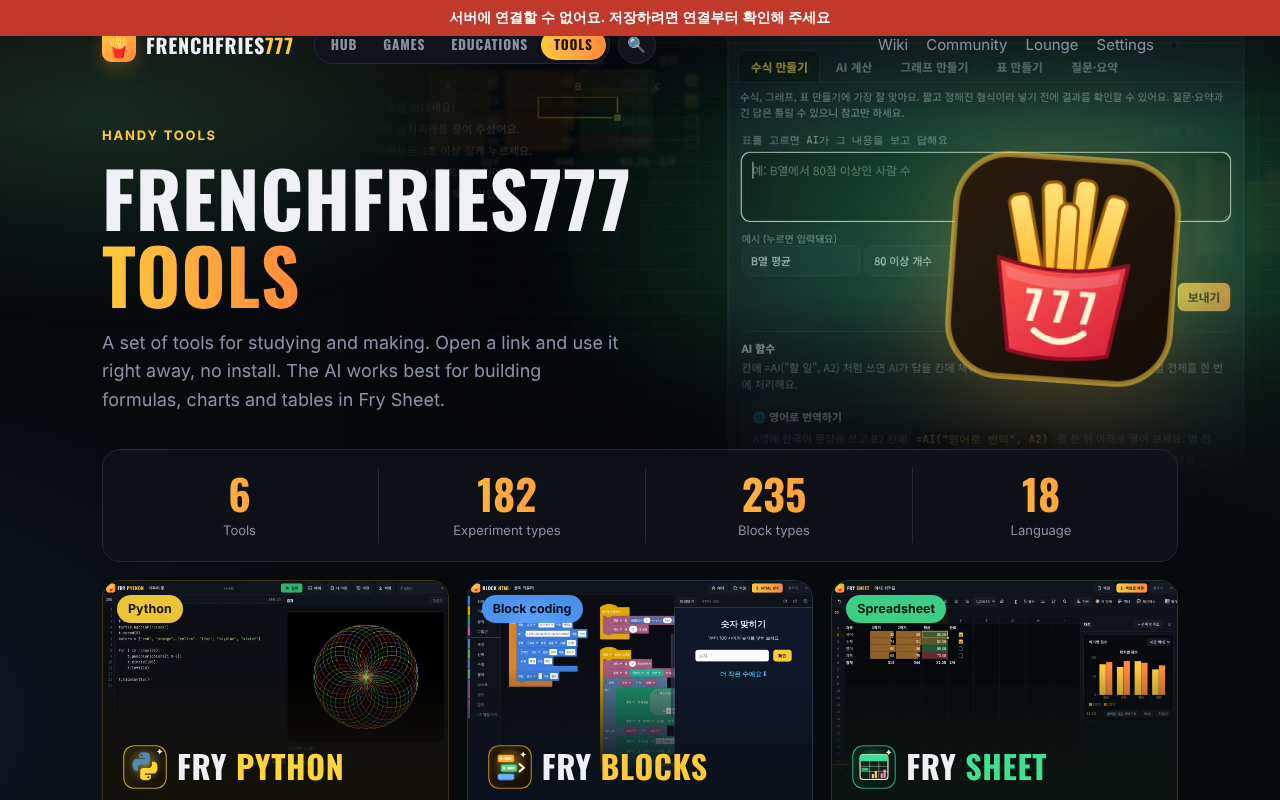
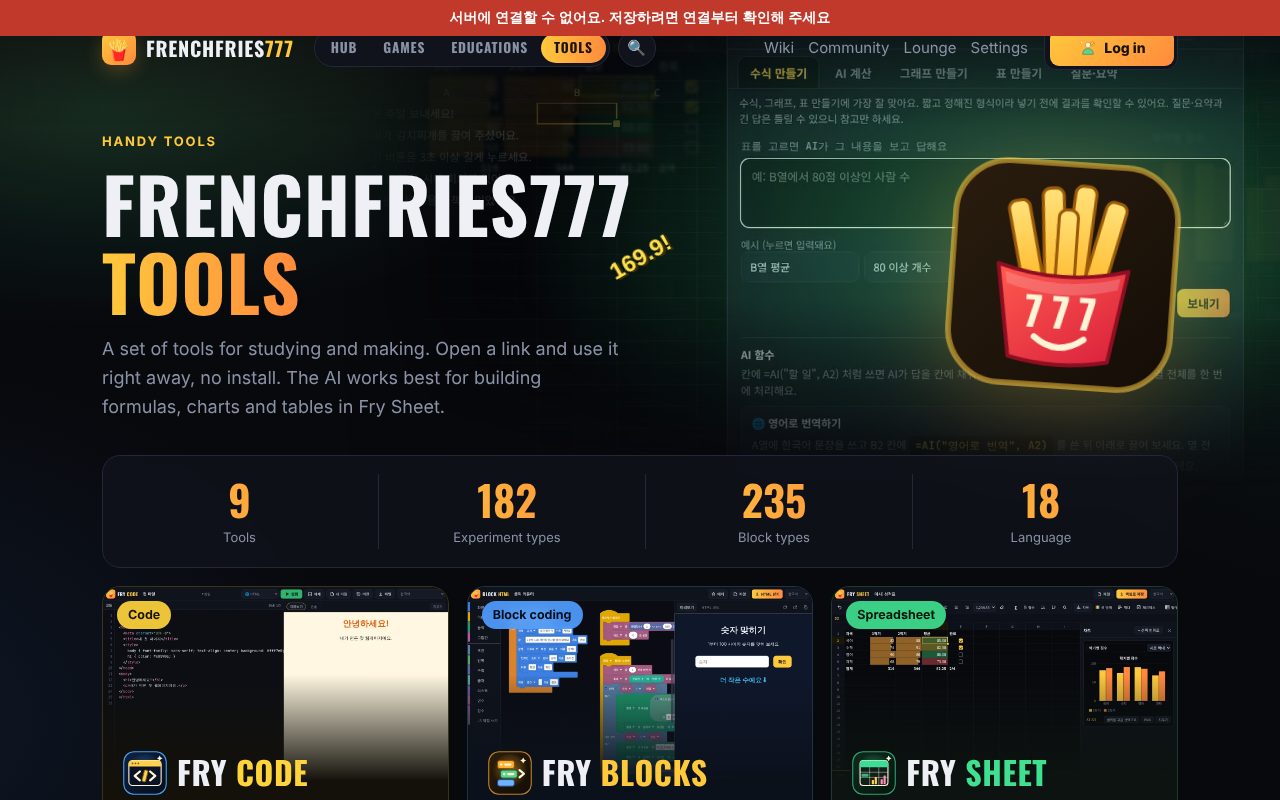
새 디자인: 라이트·다크와 황금 포인트, 도움말 다시 쓰기, 기존 화면 사진 보관

diff --git a/draw/index.html b/draw/index.html
@@ -15,8 +15,8 @@
 <link href="https://fonts.googleapis.com/css2?family=Oswald:wght@500;600;700&family=Noto+Sans+KR:wght@400;500;700;800&display=swap" rel="stylesheet">
 <script src="../i18n.js"></script>
 <style>
-:root{ --bg:#08090d; --panel:#10131b; --panel2:#151925; --line:#222837; --text:#eef0f5; --dim:#8a93a6; --fry:#ffc93c; --fry2:#ff8a3d; --desk:#0b0d13; }
-html[data-ff-theme=light]{ --bg:#f6f3ec; --panel:#ffffff; --panel2:#f1ede4; --line:#e2dccf; --text:#1f1b14; --dim:#6d6658; --desk:#e6e1d6; }
+:root{ --bg:#0e0e0e; --panel:#171717; --panel2:#121212; --line:#2e2b25; --text:#ece6d8; --dim:#a39c8c; --fry:#d9b45f; --fry2:#b8923a; --desk:#0a0a0a; }
+html[data-ff-theme=light]{ --bg:#ffffff; --panel:#ffffff; --panel2:#f6f4ee; --line:#e4dfd2; --text:#111111; --dim:#4b4b4b; --fry:#a67c00; --fry2:#d4a62a; --desk:#efeeea; }
 *{box-sizing:border-box;}
 html,body{margin:0;height:100%;background:var(--bg);color:var(--text);overscroll-behavior:none;}
 body{font-family:'Noto Sans KR','Apple SD Gothic Neo','Malgun Gothic',system-ui,sans-serif;font-size:14px;display:flex;flex-direction:column;height:100vh;height:100dvh;overflow:hidden;
@@ -33,13 +33,13 @@ button,input,select,textarea{font:inherit;color:inherit;}
 .tbtn{display:inline-flex;align-items:center;justify-content:center;gap:6px;height:34px;padding:0 12px;border-radius:8px;border:1px solid var(--line);background:var(--panel2);cursor:pointer;white-space:nowrap;}
 .tbtn:hover:not(:disabled){border-color:#3a4256;} .tbtn:disabled{opacity:.4;cursor:default;}
 .tbtn.pri{background:linear-gradient(90deg,var(--fry),var(--fry2));color:#1c1405;border:0;font-weight:700;}
-.tbtn.on{background:rgba(255,201,60,.14);border-color:rgba(255,201,60,.5);color:var(--fry);}
+.tbtn.on{background:rgba(217,180,95,.14);border-color:rgba(217,180,95,.5);color:var(--fry);}
 .zoom{color:var(--dim);font-size:12px;min-width:44px;text-align:center;}
 .main{flex:1 1 auto;display:flex;min-height:0;}
 .tools{flex:0 0 52px;background:var(--panel);border-right:1px solid var(--line);display:flex;flex-direction:column;gap:4px;padding:6px;overflow-y:auto;scrollbar-width:none;}
 .tools::-webkit-scrollbar{display:none;}
 .tl{width:38px;height:38px;border-radius:9px;border:1px solid transparent;background:transparent;cursor:pointer;display:grid;place-items:center;font-size:18px;flex:0 0 auto;}
-.tl:hover{background:var(--panel2);} .tl.on{background:rgba(255,201,60,.14);border-color:rgba(255,201,60,.55);}
+.tl:hover{background:var(--panel2);} .tl.on{background:rgba(217,180,95,.14);border-color:rgba(217,180,95,.55);}
 .tl svg{width:20px;height:20px;fill:none;stroke:currentColor;stroke-width:2;stroke-linecap:round;stroke-linejoin:round;}
 .desk{flex:1 1 auto;min-width:0;overflow:auto;background:var(--desk);position:relative;display:grid;}
 .stagew{margin:auto;padding:30px;}
@@ -62,7 +62,7 @@ textarea{width:100%;min-height:88px;background:var(--panel2);border:1px solid va
 .note{color:var(--dim);font-size:12px;line-height:1.5;margin:6px 0;}
 .pgrid{display:grid;grid-template-columns:repeat(3,1fr);gap:6px;margin-bottom:10px;}
 .pgrid button{padding:7px 4px;border-radius:8px;border:1px solid var(--line);background:var(--panel2);cursor:pointer;font-size:12.5px;}
-.pgrid button.on{border-color:var(--fry);color:var(--fry);background:rgba(255,201,60,.1);}
+.pgrid button.on{border-color:var(--fry);color:var(--fry);background:rgba(217,180,95,.1);}
 .menu{position:fixed;z-index:50;background:var(--panel);border:1px solid var(--line);border-radius:10px;padding:6px;min-width:170px;box-shadow:0 10px 30px rgba(0,0,0,.5);}
 .menu button{display:block;width:100%;text-align:left;border:0;background:transparent;padding:8px 10px;border-radius:7px;cursor:pointer;} .menu button:hover{background:var(--panel2);}
 .toast{position:fixed;left:50%;bottom:24px;transform:translateX(-50%);background:var(--panel);border:1px solid var(--line);padding:9px 16px;border-radius:10px;z-index:60;box-shadow:0 8px 24px rgba(0,0,0,.5);max-width:90vw;}
@@ -72,7 +72,7 @@ textarea{width:100%;min-height:88px;background:var(--panel2);border:1px solid va
   .main{flex-direction:column;flex-wrap:nowrap;} .tools{flex:0 0 auto;} .desk{flex:1 1 auto;height:auto;} .panel{flex:0 0 40%;}
   .brand,.tbtn .lb{display:none;}
 }
-.lyr{display:flex;gap:2px;align-items:center;margin:2px 0;border:1px solid transparent;border-radius:7px;} .lyr.on{background:rgba(255,201,60,.12);border-color:rgba(255,201,60,.5);}
+.lyr{display:flex;gap:2px;align-items:center;margin:2px 0;border:1px solid transparent;border-radius:7px;} .lyr.on{background:rgba(217,180,95,.12);border-color:rgba(217,180,95,.5);}
 .lyr button{border:0;background:transparent;cursor:pointer;padding:5px 6px;border-radius:6px;font-size:13px;} .lyr button:hover{background:var(--panel2);} .lyr .nm{flex:1;text-align:left;overflow:hidden;text-overflow:ellipsis;white-space:nowrap;}
 .nbg{display:grid;grid-template-columns:1fr 1fr;gap:6px;} .nb{display:flex;align-items:center;gap:6px;font-size:12px;color:var(--dim);} .nb input{flex:1;min-width:0;width:100%;background:var(--panel2);border:1px solid var(--line);border-radius:7px;padding:5px 6px;}
 .swr{display:flex;flex-wrap:wrap;gap:5px;} .swb{width:24px;height:24px;border-radius:7px;border:1px solid var(--line);padding:0;cursor:pointer;} .swb.del{outline:2px dashed #e53935;} .grip{cursor:grab;padding:0 5px;color:var(--dim);touch-action:none;user-select:none;} .lyr.drag{opacity:.5;} .lyr.dropb{border-bottom:3px solid var(--fry);} .lyin{flex:1;min-width:0;background:var(--panel2);border:1px solid var(--fry);border-radius:6px;padding:4px 6px;}
@@ -82,6 +82,28 @@ textarea{width:100%;min-height:88px;background:var(--panel2);border:1px solid va
 .deskw{flex:1 1 auto;min-width:0;min-height:0;display:flex;flex-direction:column;} .rtop{display:flex;height:20px;flex:0 0 20px;border-bottom:1px solid var(--line);} .rcorner{width:20px;flex:0 0 20px;background:var(--panel);border-right:1px solid var(--line);} #rh{flex:1 1 auto;min-width:0;width:100%;height:20px;display:block;cursor:s-resize;touch-action:none;} .rbody{flex:1 1 auto;display:flex;min-height:0;min-width:0;} #rv{flex:0 0 20px;width:20px;height:100%;display:block;cursor:e-resize;touch-action:none;border-right:1px solid var(--line);} .deskw.norul .rtop,.deskw.norul #rv{display:none;}
 @media(max-width:820px){ .deskw{order:1;} }
 .footer-copy{display:none;}
+/* site design 2026-11-06: site gold + white light theme (chrome only; drawings/scores/videos keep their own colours) */
+:root{--desk:#0a0a0a;}
+html[data-ff-theme=light]{--desk:#efeeea;}
+.tbtn:hover:not(:disabled){border-color:var(--fry2);}
+.home{color:#1c1405;background:linear-gradient(135deg,#d9b45f,#b8923a);}
+html[data-ff-theme=light] .top,html[data-ff-theme=light] .tools,html[data-ff-theme=light] .panel,html[data-ff-theme=light] .rcorner,html[data-ff-theme=light] .ptabs{background:#fff;}
+html[data-ff-theme=light] .brand{color:#111;} html[data-ff-theme=light] .brand b{color:#8a6500;}
+html[data-ff-theme=light] .tbtn{background:#fff;color:#161616;border-radius:10px;}
+html[data-ff-theme=light] .tbtn:hover:not(:disabled){background:#faf8f3;}
+html[data-ff-theme=light] .tbtn.pri{background:linear-gradient(90deg,#e0b93f,#d4a62a);color:#161616;border:0;}
+html[data-ff-theme=light] .tbtn.on{background:#fbf3d9;border-color:#a67c00;color:#6b4f00;}
+html[data-ff-theme=light] .tbtn:disabled{opacity:1;color:#3f3f3f;background:#f3f1ea;}
+html[data-ff-theme=light] .tl{color:#222;} html[data-ff-theme=light] .tl:hover{background:#f3f0e7;}
+html[data-ff-theme=light] .tl.on,html[data-ff-theme=light] .lyr.on,html[data-ff-theme=light] .pgrid button.on{background:#fbf3d9;border-color:#a67c00;color:#6b4f00;}
+html[data-ff-theme=light] .ptabs button{color:#333;} html[data-ff-theme=light] .ptabs button.on{color:#6b4f00;border-bottom-color:#a67c00;}
+html[data-ff-theme=light] .zoom,html[data-ff-theme=light] .note,html[data-ff-theme=light] .row label,html[data-ff-theme=light] .sec h4,html[data-ff-theme=light] .row .v{color:#444;}
+html[data-ff-theme=light] .menu,html[data-ff-theme=light] .dlg,html[data-ff-theme=light] .toast{background:#fff;box-shadow:0 16px 44px rgba(0,0,0,.16);}
+html[data-ff-theme=light] .dlgbg{background:rgba(20,18,12,.4);}
+html[data-ff-theme=light] .menu button:hover,html[data-ff-theme=light] .lyr button:hover{background:#f3f0e7;}
+html[data-ff-theme=light] .row input[type=number],html[data-ff-theme=light] .row select,html[data-ff-theme=light] .row input[type=text],html[data-ff-theme=light] textarea,html[data-ff-theme=light] .nb input,html[data-ff-theme=light] .pgrid button{background:#fff;color:#161616;}
+html[data-ff-theme=light] #dname:hover,html[data-ff-theme=light] #dname:focus{background:#faf8f3;}
+html[data-ff-theme=light] #stage,html[data-ff-theme=light] .stagew svg{box-shadow:0 6px 24px rgba(0,0,0,.14);}
 </style>
 </head>
 <body>

diff --git a/score/css/style.css b/score/css/style.css
@@ -1,5 +1,5 @@
-:root{ --bg:#08090d; --panel:#10131b; --panel2:#151925; --line:#222837; --text:#eef0f5; --dim:#8a93a6; --fry:#ffc93c; --fry2:#ff8a3d; --desk:#0b0d13; }
-html[data-ff-theme=light]{ --bg:#f6f3ec; --panel:#ffffff; --panel2:#f1ede4; --line:#e2dccf; --text:#1f1b14; --dim:#6d6658; --desk:#e6e1d6; }
+:root{ --bg:#0e0e0e; --panel:#171717; --panel2:#121212; --line:#2e2b25; --text:#ece6d8; --dim:#a39c8c; --fry:#d9b45f; --fry2:#b8923a; --desk:#0a0a0a; }
+html[data-ff-theme=light]{ --bg:#ffffff; --panel:#ffffff; --panel2:#f6f4ee; --line:#e4dfd2; --text:#111111; --dim:#4b4b4b; --fry:#a67c00; --fry2:#d4a62a; --desk:#efeeea; }
 *{box-sizing:border-box;}
 html,body{margin:0;height:100%;background:var(--bg);color:var(--text);overscroll-behavior:none;}
 body{font-family:'Noto Sans KR','Apple SD Gothic Neo','Malgun Gothic',system-ui,sans-serif;font-size:14px;display:flex;flex-direction:column;height:100vh;height:100dvh;overflow:hidden;
@@ -16,14 +16,14 @@ button,input,select,textarea{font:inherit;color:inherit;}
 .tbtn{display:inline-flex;align-items:center;justify-content:center;gap:6px;height:34px;padding:0 12px;border-radius:8px;border:1px solid var(--line);background:var(--panel2);cursor:pointer;white-space:nowrap;}
 .tbtn:hover:not(:disabled){border-color:#3a4256;} .tbtn:disabled{opacity:.4;cursor:default;}
 .tbtn.pri{background:linear-gradient(90deg,var(--fry),var(--fry2));color:#1c1405;border:0;font-weight:700;}
-.tbtn.on{background:rgba(255,201,60,.14);border-color:rgba(255,201,60,.5);color:var(--fry);}
+.tbtn.on{background:rgba(217,180,95,.14);border-color:rgba(217,180,95,.5);color:var(--fry);}
 .zoom{color:var(--dim);font-size:12px;min-width:44px;text-align:center;}
 .main{flex:1 1 auto;display:grid;grid-template-columns:minmax(0,1fr) 310px;grid-template-rows:auto minmax(0,1fr);min-height:0;}
 .main>.center{grid-column:1;grid-row:2;min-height:0;} .main>.panel{grid-column:2;grid-row:2;}
 .tools{grid-column:1/-1;grid-row:1;background:var(--panel);border-bottom:1px solid var(--line);display:flex;flex-direction:row;align-items:center;gap:4px;padding:5px 8px;overflow-x:auto;overflow-y:hidden;scrollbar-width:none;}
 .tools::-webkit-scrollbar{display:none;}
 .tl{width:40px;height:40px;border-radius:9px;border:1px solid transparent;background:transparent;cursor:pointer;display:grid;place-items:center;font-size:18px;flex:0 0 auto;}
-.tl:hover{background:var(--panel2);} .tl.on{background:rgba(255,201,60,.14);border-color:rgba(255,201,60,.55);}
+.tl:hover{background:var(--panel2);} .tl.on{background:rgba(217,180,95,.14);border-color:rgba(217,180,95,.55);}
 .tl svg{width:26px;height:26px;} .tbtn svg{width:19px;height:19px;flex:0 0 auto;}
 .desk{flex:1 1 auto;min-width:0;overflow:auto;background:var(--desk);position:relative;display:grid;}
 .stagew{margin:auto;padding:30px;}
@@ -49,7 +49,7 @@ textarea{width:100%;min-height:88px;background:var(--panel2);border:1px solid va
 .note{color:var(--dim);font-size:12px;line-height:1.5;margin:6px 0;}
 .pgrid{display:grid;grid-template-columns:repeat(3,1fr);gap:6px;margin-bottom:10px;}
 .pgrid button{padding:7px 4px;border-radius:8px;border:1px solid var(--line);background:var(--panel2);cursor:pointer;font-size:12.5px;}
-.pgrid button.on{border-color:var(--fry);color:var(--fry);background:rgba(255,201,60,.1);}
+.pgrid button.on{border-color:var(--fry);color:var(--fry);background:rgba(217,180,95,.1);}
 .menu{position:fixed;z-index:50;background:var(--panel);border:1px solid var(--line);border-radius:10px;padding:6px;min-width:170px;box-shadow:0 10px 30px rgba(0,0,0,.5);}
 .menu button{display:block;width:100%;text-align:left;border:0;background:transparent;padding:8px 10px;border-radius:7px;cursor:pointer;} .menu button:hover{background:var(--panel2);}
 .toast{position:fixed;left:50%;bottom:24px;transform:translateX(-50%);background:var(--panel);border:1px solid var(--line);padding:9px 16px;border-radius:10px;z-index:60;box-shadow:0 8px 24px rgba(0,0,0,.5);max-width:90vw;}
@@ -83,4 +83,26 @@ button:focus-visible,select:focus-visible,input:focus-visible,textarea:focus-vis
 /* uniform side-panel buttons: text buttons share one grid, symbol buttons are all the same square */
 .btns{display:grid;grid-template-columns:repeat(auto-fill,minmax(92px,1fr));gap:6px;} .btns .tbtn{height:auto;min-height:32px;padding:5px 8px;white-space:normal;line-height:1.25;text-align:center;}
 .btns.sym{grid-template-columns:repeat(auto-fill,minmax(52px,1fr));} .btns.sym .tbtn.sb{height:40px;min-height:40px;padding:0;}
-.btns.sym .tbtn.sb svg{width:34px;height:24px;} .tbtn.sb.on{background:rgba(255,201,60,.18);border-color:rgba(255,201,60,.6);color:var(--fry);}
+.btns.sym .tbtn.sb svg{width:34px;height:24px;} .tbtn.sb.on{background:rgba(217,180,95,.18);border-color:rgba(217,180,95,.6);color:var(--fry);}
+/* site design 2026-11-06: site gold + white light theme (chrome only; drawings/scores/videos keep their own colours) */
+:root{--desk:#0a0a0a;}
+html[data-ff-theme=light]{--desk:#efeeea;}
+.tbtn:hover:not(:disabled){border-color:var(--fry2);}
+.home{color:#1c1405;background:linear-gradient(135deg,#d9b45f,#b8923a);}
+html[data-ff-theme=light] .top,html[data-ff-theme=light] .tools,html[data-ff-theme=light] .panel,html[data-ff-theme=light] .rcorner,html[data-ff-theme=light] .ptabs{background:#fff;}
+html[data-ff-theme=light] .brand{color:#111;} html[data-ff-theme=light] .brand b{color:#8a6500;}
+html[data-ff-theme=light] .tbtn{background:#fff;color:#161616;border-radius:10px;}
+html[data-ff-theme=light] .tbtn:hover:not(:disabled){background:#faf8f3;}
+html[data-ff-theme=light] .tbtn.pri{background:linear-gradient(90deg,#e0b93f,#d4a62a);color:#161616;border:0;}
+html[data-ff-theme=light] .tbtn.on{background:#fbf3d9;border-color:#a67c00;color:#6b4f00;}
+html[data-ff-theme=light] .tbtn:disabled{opacity:1;color:#3f3f3f;background:#f3f1ea;}
+html[data-ff-theme=light] .tl{color:#222;} html[data-ff-theme=light] .tl:hover{background:#f3f0e7;}
+html[data-ff-theme=light] .tl.on,html[data-ff-theme=light] .lyr.on,html[data-ff-theme=light] .pgrid button.on{background:#fbf3d9;border-color:#a67c00;color:#6b4f00;}
+html[data-ff-theme=light] .ptabs button{color:#333;} html[data-ff-theme=light] .ptabs button.on{color:#6b4f00;border-bottom-color:#a67c00;}
+html[data-ff-theme=light] .zoom,html[data-ff-theme=light] .note,html[data-ff-theme=light] .row label,html[data-ff-theme=light] .sec h4,html[data-ff-theme=light] .row .v{color:#444;}
+html[data-ff-theme=light] .menu,html[data-ff-theme=light] .dlg,html[data-ff-theme=light] .toast{background:#fff;box-shadow:0 16px 44px rgba(0,0,0,.16);}
+html[data-ff-theme=light] .dlgbg{background:rgba(20,18,12,.4);}
+html[data-ff-theme=light] .menu button:hover,html[data-ff-theme=light] .lyr button:hover{background:#f3f0e7;}
+html[data-ff-theme=light] .row input[type=number],html[data-ff-theme=light] .row select,html[data-ff-theme=light] .row input[type=text],html[data-ff-theme=light] textarea,html[data-ff-theme=light] .nb input,html[data-ff-theme=light] .pgrid button{background:#fff;color:#161616;}
+html[data-ff-theme=light] #dname:hover,html[data-ff-theme=light] #dname:focus{background:#faf8f3;}
+html[data-ff-theme=light] #stage,html[data-ff-theme=light] .stagew svg{box-shadow:0 6px 24px rgba(0,0,0,.14);}

diff --git a/video/index.html b/video/index.html
@@ -14,8 +14,8 @@
 <link href="https://fonts.googleapis.com/css2?family=Oswald:wght@500;600;700&family=Noto+Sans+KR:wght@400;500;700;800&display=swap" rel="stylesheet">
 <script src="../i18n.js"></script>
 <style>
-:root{ --bg:#08090d; --panel:#10131b; --panel2:#151925; --line:#222837; --text:#eef0f5; --dim:#8a93a6; --fry:#ffc93c; --fry2:#ff8a3d; --desk:#0b0d13; }
-html[data-ff-theme=light]{ --bg:#f6f3ec; --panel:#ffffff; --panel2:#f1ede4; --line:#e2dccf; --text:#1f1b14; --dim:#6d6658; --desk:#e6e1d6; }
+:root{ --bg:#0e0e0e; --panel:#171717; --panel2:#121212; --line:#2e2b25; --text:#ece6d8; --dim:#a39c8c; --fry:#d9b45f; --fry2:#b8923a; --desk:#0a0a0a; }
+html[data-ff-theme=light]{ --bg:#ffffff; --panel:#ffffff; --panel2:#f6f4ee; --line:#e4dfd2; --text:#111111; --dim:#4b4b4b; --fry:#a67c00; --fry2:#d4a62a; --desk:#efeeea; }
 *{box-sizing:border-box;}
 html,body{margin:0;height:100%;background:var(--bg);color:var(--text);overscroll-behavior:none;}
 body{font-family:'Noto Sans KR','Apple SD Gothic Neo','Malgun Gothic',system-ui,sans-serif;font-size:14px;display:flex;flex-direction:column;height:100vh;height:100dvh;overflow:hidden;
@@ -32,13 +32,13 @@ button,input,select,textarea{font:inherit;color:inherit;}
 .tbtn{display:inline-flex;align-items:center;justify-content:center;gap:6px;height:34px;padding:0 12px;border-radius:8px;border:1px solid var(--line);background:var(--panel2);cursor:pointer;white-space:nowrap;}
 .tbtn:hover:not(:disabled){border-color:#3a4256;} .tbtn:disabled{opacity:.4;cursor:default;}
 .tbtn.pri{background:linear-gradient(90deg,var(--fry),var(--fry2));color:#1c1405;border:0;font-weight:700;}
-.tbtn.on{background:rgba(255,201,60,.14);border-color:rgba(255,201,60,.5);color:var(--fry);}
+.tbtn.on{background:rgba(217,180,95,.14);border-color:rgba(217,180,95,.5);color:var(--fry);}
 .zoom{color:var(--dim);font-size:12px;min-width:44px;text-align:center;}
 .main{flex:1 1 auto;display:flex;min-height:0;}
 .tools{flex:0 0 52px;background:var(--panel);border-right:1px solid var(--line);display:flex;flex-direction:column;gap:4px;padding:6px;overflow-y:auto;scrollbar-width:none;}
 .tools::-webkit-scrollbar{display:none;}
 .tl{width:38px;height:38px;border-radius:9px;border:1px solid transparent;background:transparent;cursor:pointer;display:grid;place-items:center;font-size:18px;flex:0 0 auto;}
-.tl:hover{background:var(--panel2);} .tl.on{background:rgba(255,201,60,.14);border-color:rgba(255,201,60,.55);}
+.tl:hover{background:var(--panel2);} .tl.on{background:rgba(217,180,95,.14);border-color:rgba(217,180,95,.55);}
 .tl svg{width:20px;height:20px;fill:none;stroke:currentColor;stroke-width:2;stroke-linecap:round;stroke-linejoin:round;}
 .desk{flex:1 1 auto;min-width:0;overflow:auto;background:var(--desk);position:relative;display:grid;}
 .stagew{margin:auto;padding:30px;}
@@ -61,7 +61,7 @@ textarea{width:100%;min-height:88px;background:var(--panel2);border:1px solid va
 .note{color:var(--dim);font-size:12px;line-height:1.5;margin:6px 0;}
 .pgrid{display:grid;grid-template-columns:repeat(3,1fr);gap:6px;margin-bottom:10px;}
 .pgrid button{padding:7px 4px;border-radius:8px;border:1px solid var(--line);background:var(--panel2);cursor:pointer;font-size:12.5px;}
-.pgrid button.on{border-color:var(--fry);color:var(--fry);background:rgba(255,201,60,.1);}
+.pgrid button.on{border-color:var(--fry);color:var(--fry);background:rgba(217,180,95,.1);}
 .menu{position:fixed;z-index:50;background:var(--panel);border:1px solid var(--line);border-radius:10px;padding:6px;min-width:170px;box-shadow:0 10px 30px rgba(0,0,0,.5);}
 .menu button{display:block;width:100%;text-align:left;border:0;background:transparent;padding:8px 10px;border-radius:7px;cursor:pointer;} .menu button:hover{background:var(--panel2);}
 .toast{position:fixed;left:50%;bottom:24px;transform:translateX(-50%);background:var(--panel);border:1px solid var(--line);padding:9px 16px;border-radius:10px;z-index:60;box-shadow:0 8px 24px rgba(0,0,0,.5);max-width:90vw;}
@@ -112,6 +112,28 @@ textarea{width:100%;min-height:88px;background:var(--panel2);border:1px solid va
   .tlw{flex:0 0 150px;} .lane{height:46px;} .tlbar{padding:5px 8px;gap:6px;} .tbtn{height:36px;}
   #dname{max-width:110px;} .top{gap:6px;padding:6px 8px;}
 }
+/* site design 2026-11-06: site gold + white light theme (chrome only; drawings/scores/videos keep their own colours) */
+:root{--desk:#0a0a0a;}
+html[data-ff-theme=light]{--desk:#efeeea;}
+.tbtn:hover:not(:disabled){border-color:var(--fry2);}
+.home{color:#1c1405;background:linear-gradient(135deg,#d9b45f,#b8923a);}
+html[data-ff-theme=light] .top,html[data-ff-theme=light] .tools,html[data-ff-theme=light] .panel,html[data-ff-theme=light] .rcorner,html[data-ff-theme=light] .ptabs{background:#fff;}
+html[data-ff-theme=light] .brand{color:#111;} html[data-ff-theme=light] .brand b{color:#8a6500;}
+html[data-ff-theme=light] .tbtn{background:#fff;color:#161616;border-radius:10px;}
+html[data-ff-theme=light] .tbtn:hover:not(:disabled){background:#faf8f3;}
+html[data-ff-theme=light] .tbtn.pri{background:linear-gradient(90deg,#e0b93f,#d4a62a);color:#161616;border:0;}
+html[data-ff-theme=light] .tbtn.on{background:#fbf3d9;border-color:#a67c00;color:#6b4f00;}
+html[data-ff-theme=light] .tbtn:disabled{opacity:1;color:#3f3f3f;background:#f3f1ea;}
+html[data-ff-theme=light] .tl{color:#222;} html[data-ff-theme=light] .tl:hover{background:#f3f0e7;}
+html[data-ff-theme=light] .tl.on,html[data-ff-theme=light] .lyr.on,html[data-ff-theme=light] .pgrid button.on{background:#fbf3d9;border-color:#a67c00;color:#6b4f00;}
+html[data-ff-theme=light] .ptabs button{color:#333;} html[data-ff-theme=light] .ptabs button.on{color:#6b4f00;border-bottom-color:#a67c00;}
+html[data-ff-theme=light] .zoom,html[data-ff-theme=light] .note,html[data-ff-theme=light] .row label,html[data-ff-theme=light] .sec h4,html[data-ff-theme=light] .row .v{color:#444;}
+html[data-ff-theme=light] .menu,html[data-ff-theme=light] .dlg,html[data-ff-theme=light] .toast{background:#fff;box-shadow:0 16px 44px rgba(0,0,0,.16);}
+html[data-ff-theme=light] .dlgbg{background:rgba(20,18,12,.4);}
+html[data-ff-theme=light] .menu button:hover,html[data-ff-theme=light] .lyr button:hover{background:#f3f0e7;}
+html[data-ff-theme=light] .row input[type=number],html[data-ff-theme=light] .row select,html[data-ff-theme=light] .row input[type=text],html[data-ff-theme=light] textarea,html[data-ff-theme=light] .nb input,html[data-ff-theme=light] .pgrid button{background:#fff;color:#161616;}
+html[data-ff-theme=light] #dname:hover,html[data-ff-theme=light] #dname:focus{background:#faf8f3;}
+html[data-ff-theme=light] #stage,html[data-ff-theme=light] .stagew svg{box-shadow:0 6px 24px rgba(0,0,0,.14);}
 </style>
 </head>
 <body>

diff --git a/index.html b/index.html
@@ -319,18 +319,18 @@ FFT.add({
   .fl .play{background:#a78bfa; color:#140a2b;}
   .tags span.ai{border-color:var(--fry); color:var(--fry); font-weight:600;}
   /* site design 2026-11-06: every tool card uses the same panel + gold accent (no per-tool colours) */
-  .game.py,.game.dc,.game.fs,.game.bh,.game.sl,.game.fl{--card:var(--panel); --gc:217,180,95; background:var(--panel); border-color:var(--line);}
-  .game.py:hover,.game.dc:hover,.game.fs:hover,.game.bh:hover,.game.sl:hover,.game.fl:hover{border-color:var(--fry); box-shadow:0 18px 50px rgba(217,180,95,.16);}
-  .game.py h2,.game.dc h2,.game.fs h2,.game.bh h2,.game.sl h2,.game.fl h2{color:var(--text);}
-  .game.py .badge,.game.dc .badge,.game.fs .badge,.game.bh .badge,.game.sl .badge,.game.fl .badge{background:var(--fry); color:#fff;}
-  .game.py h2 b,.game.dc h2 b,.game.fs h2 b,.game.bh h2 b,.game.sl h2 b,.game.fl h2 b{color:var(--fry);}
-  .game.py .motto,.game.dc .motto,.game.fs .motto,.game.bh .motto,.game.sl .motto,.game.fl .motto{color:var(--fry);} .game.py .motto i,.game.dc .motto i,.game.fs .motto i,.game.bh .motto i,.game.sl .motto i,.game.fl .motto i{background:var(--fry);}
-  .game.py .tags span,.game.dc .tags span,.game.fs .tags span,.game.bh .tags span,.game.sl .tags span,.game.fl .tags span{background:rgba(217,180,95,.1); color:var(--text); border:1px solid rgba(217,180,95,.35);}
-  .game.py .desc,.game.dc .desc,.game.fs .desc,.game.bh .desc,.game.sl .desc,.game.fl .desc{color:var(--dim);} .game.py .desc li::marker,.game.dc .desc li::marker,.game.fs .desc li::marker,.game.bh .desc li::marker,.game.sl .desc li::marker,.game.fl .desc li::marker{color:var(--fry);}
-  .game.py .play,.game.dc .play,.game.fs .play,.game.bh .play,.game.sl .play,.game.fl .play{background:linear-gradient(90deg,#d9b45f,#b8923a); color:#1c1405;}
-  html[data-ff-theme=light] .game.py .play,.game.dc .play,.game.fs .play,.game.bh .play,.game.sl .play,.game.fl .play{background:linear-gradient(90deg,#e0b93f,#d4a62a); color:#161616;}
-  html[data-ff-theme=dark] .game.py .badge,.game.dc .badge,.game.fs .badge,.game.bh .badge,.game.sl .badge,.game.fl .badge{color:#1a1503;}
-  html[data-ff-theme=light] .game.py .tags span,.game.dc .tags span,.game.fs .tags span,.game.bh .tags span,.game.sl .tags span,.game.fl .tags span{background:#fbf3d9;}
+  .game:is(.py,.dc,.fs,.bh,.sl,.fl,.dr,.sc,.vd){--card:var(--panel); --gc:217,180,95; background:var(--panel); border-color:var(--line);}
+  .game:is(.py,.dc,.fs,.bh,.sl,.fl,.dr,.sc,.vd):hover{border-color:var(--fry); box-shadow:0 18px 50px rgba(217,180,95,.16);}
+  .game:is(.py,.dc,.fs,.bh,.sl,.fl,.dr,.sc,.vd) h2{color:var(--text);}
+  .game:is(.py,.dc,.fs,.bh,.sl,.fl,.dr,.sc,.vd) .badge{background:var(--fry); color:#fff;}
+  .game:is(.py,.dc,.fs,.bh,.sl,.fl,.dr,.sc,.vd) h2 b{color:var(--fry);}
+  .game:is(.py,.dc,.fs,.bh,.sl,.fl,.dr,.sc,.vd) .motto{color:var(--fry);} .game:is(.py,.dc,.fs,.bh,.sl,.fl,.dr,.sc,.vd) .motto i{background:var(--fry);}
+  .game:is(.py,.dc,.fs,.bh,.sl,.fl,.dr,.sc,.vd) .tags span{background:rgba(217,180,95,.1); color:var(--text); border:1px solid rgba(217,180,95,.35);}
+  .game:is(.py,.dc,.fs,.bh,.sl,.fl,.dr,.sc,.vd) .desc{color:var(--dim);} .game:is(.py,.dc,.fs,.bh,.sl,.fl,.dr,.sc,.vd) .desc li::marker{color:var(--fry);}
+  .game:is(.py,.dc,.fs,.bh,.sl,.fl,.dr,.sc,.vd) .play{background:linear-gradient(90deg,#d9b45f,#b8923a); color:#1c1405;}
+  html[data-ff-theme=light] .game:is(.py,.dc,.fs,.bh,.sl,.fl,.dr,.sc,.vd) .play{background:linear-gradient(90deg,#e0b93f,#d4a62a); color:#161616;}
+  html[data-ff-theme=dark] .game:is(.py,.dc,.fs,.bh,.sl,.fl,.dr,.sc,.vd) .badge{color:#1a1503;}
+  html[data-ff-theme=light] .game:is(.py,.dc,.fs,.bh,.sl,.fl,.dr,.sc,.vd) .tags span{background:#fbf3d9;}
   html[data-ff-theme=light] .game{box-shadow:0 2px 14px rgba(0,0,0,.06);}
   .why{display:grid; grid-template-columns:repeat(2,1fr); gap:14px; margin:40px 0 0;}
   .why > div{background:var(--panel); border:1px solid var(--line); border-radius:14px; padding:18px 18px 16px;}

diff --git a/claude-key/index.html b/claude-key/index.html
@@ -5,13 +5,17 @@
 <meta name="viewport" content="width=device-width,initial-scale=1">
 <meta name="robots" content="noindex">
 <title>Tools 키</title>
+<script src="../i18n.js"></script>
 <style>
-body{font-family:system-ui,sans-serif;background:#111;color:#eee;display:flex;justify-content:center;padding:40px 16px;margin:0}
+:root{--bg:#0e0e0e;--panel:#171717;--panel2:#121212;--line:#2e2b25;--text:#ece6d8;--dim:#a39c8c;--fry:#d9b45f;--fry2:#b8923a}
+html[data-ff-theme=light]{--bg:#fff;--panel:#fff;--panel2:#f6f4ee;--line:#e4dfd2;--text:#111;--dim:#4b4b4b;--fry:#a67c00;--fry2:#d4a62a}
+body{font-family:system-ui,sans-serif;background:var(--bg);color:var(--text);display:flex;justify-content:center;padding:40px 16px;margin:0}
 main{width:100%;max-width:420px;display:flex;flex-direction:column;gap:10px}
-input,button{padding:10px;border-radius:8px;border:1px solid #444;background:#1c1c1c;color:#eee;font-size:16px}
-button{background:#e8b04a;color:#111;border:0;font-weight:700;cursor:pointer}
-footer{margin-top:24px;font-size:12px;color:#888;display:flex;flex-direction:column;gap:4px}
-footer a{color:#aaa}
+input,button{padding:10px;border-radius:10px;border:1px solid var(--line);background:var(--panel);color:var(--text);font-size:16px}
+button{background:linear-gradient(90deg,#d9b45f,#b8923a);color:#1c1405;border:0;font-weight:700;cursor:pointer}
+html[data-ff-theme=light] button{background:linear-gradient(90deg,#e0b93f,#d4a62a);color:#161616}
+footer{margin-top:24px;font-size:12px;color:var(--dim);display:flex;flex-direction:column;gap:4px}
+footer a{color:var(--text)}
 </style>
 </head>
 <body>
